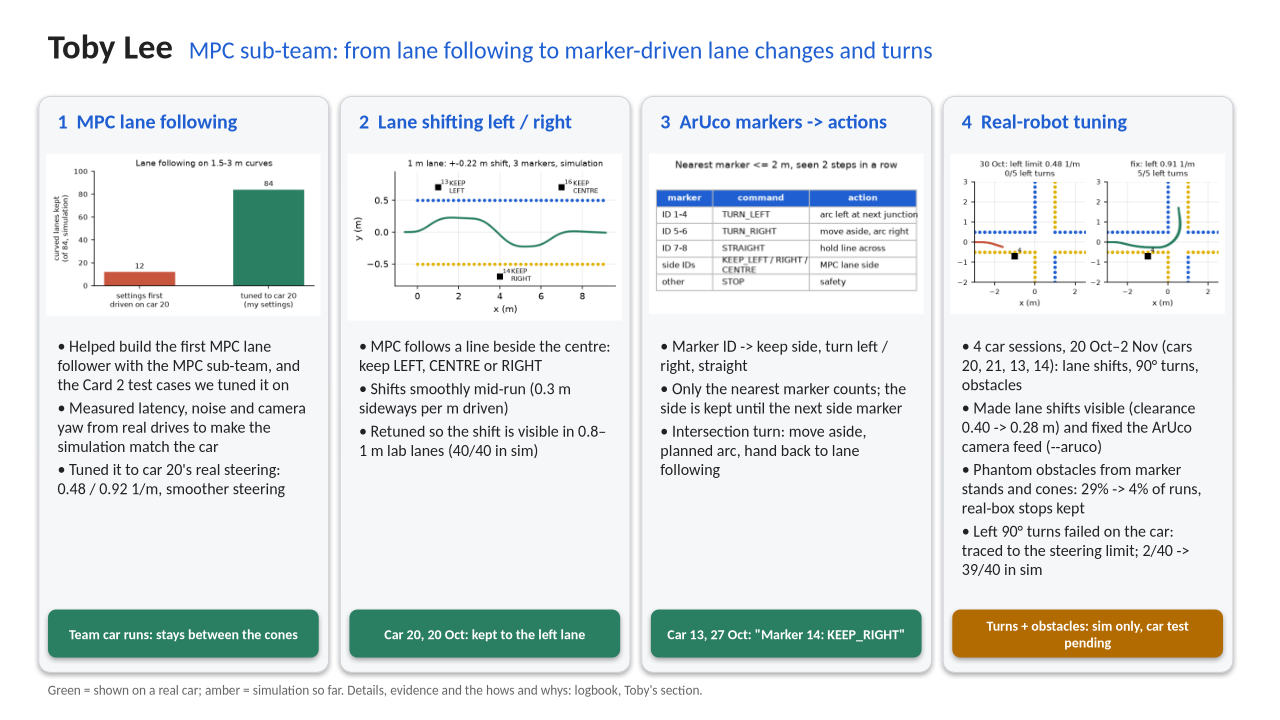
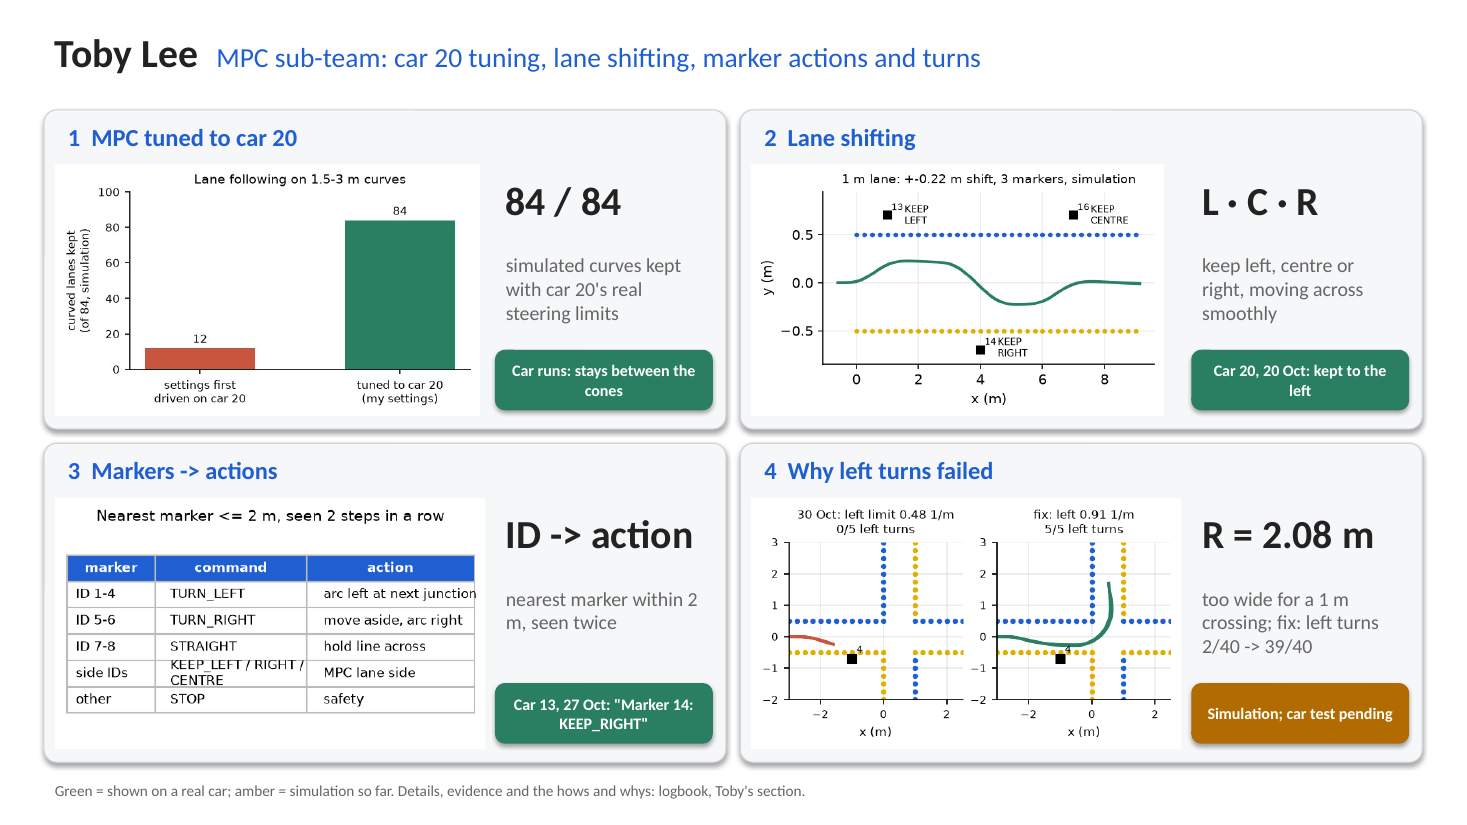
docs(logbook): Toby's slide with less text, the detail moved to the speaker notes

diff --git a/docs/logbook/toby/make_slide.py b/docs/logbook/toby/make_slide.py
@@ -16,28 +16,34 @@ DARK, BLUE, GREY = RGBColor(0x22, 0x22, 0x22), RGBColor(0x1F, 0x5F, 0xD1), RGBCo
 GREEN, AMBER = RGBColor(0x2A, 0x7F, 0x62), RGBColor(0xB2, 0x6B, 0x00)
 
 CARDS = [
-    ("1  MPC lane following",
-     ["Helped build the first MPC lane follower with the MPC sub-team, and the Card 2 test cases we tuned it on",
-      "Measured latency, noise and camera yaw from real drives to make the simulation match the car",
-      "Tuned it to car 20's real steering: 0.48 / 0.92 1/m, smoother steering"],
-     "slide_mpc.png", ("Team car runs: stays between the cones", GREEN)),
-    ("2  Lane shifting left / right",
-     ["MPC follows a line beside the centre: keep LEFT, CENTRE or RIGHT",
-      "Shifts smoothly mid-run (0.3 m sideways per m driven)",
-      "Retuned so the shift is visible in 0.8–1 m lab lanes (40/40 in sim)"],
-     "slide_lane_change.png", ("Car 20, 20 Oct: kept to the left lane", GREEN)),
-    ("3  ArUco markers -> actions",
-     ["Marker ID -> keep side, turn left / right, straight",
-      "Only the nearest marker counts; the side is kept until the next side marker",
-      "Intersection turn: move aside, planned arc, hand back to lane following"],
-     "slide_aruco.png", ("Car 13, 27 Oct: \"Marker 14: KEEP_RIGHT\"", GREEN)),
-    ("4  Real-robot tuning",
-     ["4 car sessions, 20 Oct–2 Nov (cars 20, 21, 13, 14): lane shifts, 90° turns, obstacles",
-      "Made lane shifts visible (clearance 0.40 -> 0.28 m) and fixed the ArUco camera feed (--aruco)",
-      "Phantom obstacles from marker stands and cones: 29% -> 4% of runs, real-box stops kept",
-      "Left 90° turns failed on the car: traced to the steering limit; 2/40 -> 39/40 in sim"],
-     "slide_left_turn.png", ("Turns + obstacles: sim only, car test pending", AMBER)),
+    ("1  MPC tuned to car 20", "slide_mpc.png", "84 / 84",
+     "simulated curves kept with car 20's real steering limits", ("Car runs: stays between the cones", GREEN)),
+    ("2  Lane shifting", "slide_lane_change.png", "L · C · R",
+     "keep left, centre or right, moving across smoothly", ("Car 20, 20 Oct: kept to the left", GREEN)),
+    ("3  Markers -> actions", "slide_aruco.png", "ID -> action",
+     "nearest marker within 2 m, seen twice", ("Car 13, 27 Oct: \"Marker 14: KEEP_RIGHT\"", GREEN)),
+    ("4  Why left turns failed", "slide_left_turn.png", "R = 2.08 m",
+     "too wide for a 1 m crossing; fix: left turns 2/40 -> 39/40", ("Simulation; car test pending", AMBER)),
 ]
+"""(title, figure, key number, one line under it, (status badge, colour)). The rest is said, not written: see
+SCRIPT."""
+SCRIPT = """About 100 seconds. Point at each card as you reach it.
+[1] I'm Toby, in the MPC sub-team. Peiyu built our MPC. I wrote the Stage 1 test cases we tuned it on, and measured the
+real car's delay and cone noise from recorded drives so the simulation behaved like the car. Then I tuned the MPC to
+car 20 with Chris's measured steering limits: 0.48 per metre to the left and 0.92 to the right. With those limits it
+kept every one of the 84 simulated curves, and the steering became about three times smoother.
+[2] Next, lane shifting. Instead of the lane centre, the MPC can follow a line beside it, so the car keeps left, centre
+or right, and it moves across gradually, at most 0.3 metres sideways per metre driven. On car 20 on 20 October,
+changing only that setting to left kept the car on the left. In the lab's narrow lanes the shift was hard to see, so I
+worked out how much room there really is and retuned it: 40 out of 40 in simulation.
+[3] Then I connected the ArUco markers to the policy. Only the nearest marker within two metres counts, and only once
+it has been seen in two steps in a row. Its ID means keep a side, turn left, turn right or go straight. A turn is its
+own manoeuvre: move to the outside of the lane, drive a planned arc, then hand back to lane following. On car 13 the
+policy acted on a keep-right marker.
+[4] Last, four car sessions of testing. Left turns kept failing on car 20 while right turns worked. I reproduced the
+same pattern in simulation and traced it to the steering: car 20 can only turn left on a 2.08 metre radius, and that
+doesn't fit a one-metre crossing. With more steering range, left turns go from 2 out of 40 to 39 out of 40 in
+simulation. A full turn on a car is still to be shown."""
 
 
 def text_box(slide, x, y, w, h, paragraphs):
@@ -57,21 +63,23 @@ def main():
     deck.slide_width, deck.slide_height = Inches(13.333), Inches(7.5)
     slide = deck.slides.add_slide(deck.slide_layouts[6])
     text_box(slide, 0.4, 0.2, 12.5, 0.7, [[("Toby Lee  ", 26, True, DARK),
-                                           ("MPC sub-team: from lane following to marker-driven lane changes and turns",
+                                           ("MPC sub-team: car 20 tuning, lane shifting, marker actions and turns",
                                             18, False, BLUE)]])
-    width, gap, top = 3.02, 0.12, 1.0
-    for i, (title, bullets, figure, (status, colour)) in enumerate(CARDS):
-        x = 0.4 + i * (width + gap)
-        card = slide.shapes.add_shape(MSO_SHAPE.ROUNDED_RECTANGLE, Inches(x), Inches(top), Inches(width), Inches(6.0))
+    width, height, gap = 6.2, 2.9, 0.13
+    for i, (title, figure, number, line, (status, colour)) in enumerate(CARDS):
+        x, y = 0.4 + (i % 2) * (width + gap), 1.0 + (i // 2) * (height + gap)
+        card = slide.shapes.add_shape(MSO_SHAPE.ROUNDED_RECTANGLE, Inches(x), Inches(y), Inches(width), Inches(height))
         card.adjustments[0] = 0.04
         card.fill.solid()
         card.fill.fore_color.rgb = RGBColor(0xF6, 0xF7, 0xF9)
         card.line.color.rgb = RGBColor(0xD0, 0xD4, 0xDA)
-        text_box(slide, x + 0.1, top + 0.08, width - 0.2, 0.45, [[(title, 15, True, BLUE)]])
-        slide.shapes.add_picture(str(FIGURES / figure), Inches(x + 0.08), Inches(top + 0.6), width=Inches(width - 0.16))
-        text_box(slide, x + 0.1, top + 2.45, width - 0.2, 2.9, [[("• " + b, 12, False, DARK)] for b in bullets])
-        badge = slide.shapes.add_shape(MSO_SHAPE.ROUNDED_RECTANGLE, Inches(x + 0.1), Inches(top + 5.35),
-                                       Inches(width - 0.2), Inches(0.5))
+        text_box(slide, x + 0.12, y + 0.06, width - 0.24, 0.45, [[(title, 16, True, BLUE)]])
+        slide.shapes.add_picture(str(FIGURES / figure), Inches(x + 0.1), Inches(y + 0.5), height=Inches(2.28))
+        right = x + 4.1
+        text_box(slide, right, y + 0.55, width - 4.2, 0.7, [[(number, 26, True, DARK)]])
+        text_box(slide, right, y + 1.25, width - 4.2, 0.9, [[(line, 13, False, GREY)]])
+        badge = slide.shapes.add_shape(MSO_SHAPE.ROUNDED_RECTANGLE, Inches(right), Inches(y + 2.18),
+                                       Inches(width - 4.22), Inches(0.55))
         badge.fill.solid()
         badge.fill.fore_color.rgb = colour
         badge.line.fill.background()
@@ -83,18 +91,7 @@ def main():
     text_box(slide, 0.4, 7.05, 12.5, 0.4, [[("Green = shown on a real car; amber = simulation so far. Details, "
                                              "evidence and the hows and whys: logbook, Toby's section.", 10, False,
                                              GREY)]])
-    slide.notes_slide.notes_text_frame.text = (
-        "About 90 seconds, whats only.\n"
-        "1. With the MPC sub-team I helped build the first MPC lane follower and the Card 2 test cases we tuned it on. "
-        "I measured the real car's latency, noise and camera yaw from recordings and tuned the MPC to car 20's real "
-        "steering limits.\n"
-        "2. Then I added lane shifting: the MPC can keep to the left, centre or right of the lane and move across "
-        "mid-run. On car 20 on 20 Oct, setting it to left kept the car on the left.\n"
-        "3. Then I mapped ArUco markers to policy actions: keep a side, or turn left, right or go straight at the next "
-        "junction, which uses a planned arc and hands back to lane following. Car 13 acted on a keep-right marker.\n"
-        "4. Finally, real-robot tuning and testing over four car sessions: I fixed the camera feed for the marker "
-        "detector, filtered the phantom obstacles the marker stands caused, and traced the failing left turns to car "
-        "20's steering. The fix works in simulation; the full turn still needs a car test.")
+    slide.notes_slide.notes_text_frame.text = SCRIPT.replace("\n[", "\n\n[")
     OUT.parent.mkdir(parents=True, exist_ok=True)
     deck.save(OUT)
     print("wrote", OUT)
